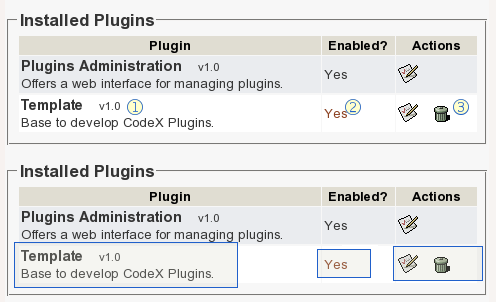
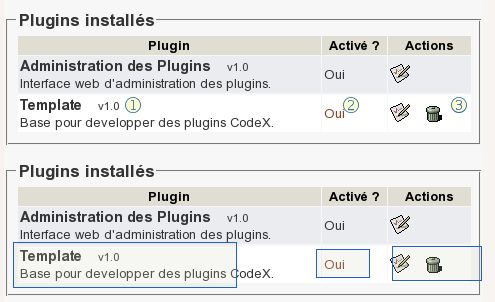
Replace english screenshots by french ones in french documentation. Link web pages of PluginsAdministration to its documentation.

diff --git a/plugins/pluginsadministration/www/documentation/fr_FR/screenshots.css b/plugins/pluginsadministration/www/documentation/fr_FR/screenshots.css
@@ -19,13 +19,13 @@
 dl#legendInstalledPlugins{
 	background:transparent url(InstalledPlugins.png) top left no-repeat;
 	height: 151px;
-	width: 496px;
+	width: 495px;
 }
 
 dl#legendPriorities{
 	background:transparent url(Priorities.png) top left no-repeat;
-	height: 234px;
-	width: 490px;
+	height: 233px;
+	width: 489px;
 }
 
 .screenshot dl dt{ margin: 0; padding: 0; position: absolute; font-size: 85%; display: none; }
@@ -45,34 +45,34 @@ dl#legendPriorities{
 }
 
 /* ---------- Hotspot Declarations ---------- */
-dd#descriptionDef{ top: 91px; left: 14px; }
+dd#descriptionDef{ top: 91px; left: 13px; }
 dd#descriptionDef a{ position: absolute; width: 244px; height: 46px; text-decoration: none; }
 dd#descriptionDef a span{ display: none; }
-dd#descriptionDef a:hover{ background: transparent url(InstalledPlugins.png)  -14px  -242px no-repeat; }
+dd#descriptionDef a:hover{ background: red url(InstalledPlugins.png)  -13px  -242px no-repeat; }
 dd#descriptionDef a:hover span {display: block;}
 
-dd#enableDef{ top: 98px; left: 317px; }
+dd#enableDef{ top: 98px; left: 316px; }
 dd#enableDef a{ position: absolute; width: 55px; height: 29px; text-decoration: none; }
 dd#enableDef a span{ display: none; }
-dd#enableDef a:hover{ background: transparent url(InstalledPlugins.png)  -317px -249px  no-repeat; }
+dd#enableDef a:hover{ background: transparent url(InstalledPlugins.png)  -316px -249px  no-repeat; }
 dd#enableDef a:hover span {display: block; width:200%;}
 
 
-dd#actionsDef{ top: 95px; left: 393px; }
+dd#actionsDef{ top: 95px; left: 392px; }
 dd#actionsDef a{ position: absolute; width: 90px; height: 35px; text-decoration: none;	}
 dd#actionsDef a span{ display: none; }
-dd#actionsDef a:hover{ background: transparent url(InstalledPlugins.png) -393px -246px no-repeat; }
+dd#actionsDef a:hover{ background: transparent url(InstalledPlugins.png) -392px -246px no-repeat; }
 dd#actionsDef a:hover span {display: block; width:250%;}
 
 /* */
-dd#hookDef{ top: 16px; left: 14px; }
-dd#hookDef a{ position: absolute; width: 310px; height: 43px; text-decoration: none; }
+dd#hookDef{ top: 17px; left: 14px; }
+dd#hookDef a{ position: absolute; width: 363px; height: 41px; text-decoration: none; }
 dd#hookDef a span{ display: none; }
 dd#hookDef a:hover{ background: transparent url(Priorities.png)  -14px  -250px no-repeat; }
 dd#hookDef a:hover span {display: block;}
 
-dd#prioritiesDef{ top: 105px; left: 11px; }
-dd#prioritiesDef a{ position: absolute; width: 239px; height: 97px; text-decoration: none; }
+dd#prioritiesDef{ top: 106px; left: 11px; }
+dd#prioritiesDef a{ position: absolute; width: 253px; height: 97px; text-decoration: none; }
 dd#prioritiesDef a span{ display: none; }
 dd#prioritiesDef a:hover{ background: transparent url(Priorities.png)  -11px -339px  no-repeat; }
 dd#prioritiesDef a:hover span {display: block; width:100%;}

diff --git a/plugins/pluginsadministration/www/index.php b/plugins/pluginsadministration/www/index.php
@@ -6,7 +6,9 @@
  *
  * front-end to plugins administration
  */
+define('PLUGINS_ADMINISTRATION', 1);
 require_once('pre.php');
+require_once('./common.php');
 require_once('common/plugin/PluginManager.class');
 require_once('common/plugin/PluginHookPriorityManager.class');
 require_once('common/collection/MultiMap.class');
@@ -94,20 +96,21 @@ if (isset($_REQUEST['action']) && isset($_REQUEST['plugin_id'])) {
     }
 }
 
+
 //get all plugins
 $plugins    =& $plugin_manager->getAllPlugins();
 $priorities =  array();
 
 $title = $Language->getText('plugin_pluginsadministration','title');
 $HTML->header(array('title'=>$title));
-$output = '<h2>'.$title.'</h2>';
+$output = '<h2>'.$title.'&nbsp;'.getHelp().'</h2>';
 
 if (isset($confirmation)) {
     $output .= $confirmation;
 }
 
 //{{{ Installed Plugins
-$output .= '<fieldset class="pluginsadministration"><legend>'.$Language->getText('plugin_pluginsadministration','plugins').'</legend><form>';
+$output .= '<fieldset class="pluginsadministration"><legend>'.$Language->getText('plugin_pluginsadministration','plugins').'&nbsp;'.getHelp('manage').'</legend><form>';
 if($plugins->isEmpty()) {
     $output .= $Language->getText('plugin_pluginsadministration','there_is_no_plugin');
 } else {
@@ -192,7 +195,7 @@ $output .= '</form></fieldset>';
 //{{{ Not yet installed plugins
 $not_yet_installed =& $plugin_manager->getNotYetInstalledPlugins();
 if ($not_yet_installed && count($not_yet_installed) > 0) {
-    $output .= '<fieldset class="pluginsadministration"><legend>'.$Language->getText('plugin_pluginsadministration','not_yet_installed').'</legend>';
+    $output .= '<fieldset class="pluginsadministration"><legend>'.$Language->getText('plugin_pluginsadministration','not_yet_installed').'&nbsp;'.getHelp('install').'</legend>';
     $output .= '<div>'.$GLOBALS['Language']->getText('plugin_pluginsadministration','select_install').'</div>';
     $prefixe = '<a href="?action=install&name=';
     $middle  = '" title="'.$Language->getText('plugin_pluginsadministration','install_plugin').'">';
@@ -236,7 +239,7 @@ if (count($priorities) > 0) {
     if($show_priorities) {
         $form_name = '_'.mt_rand();
         $output .= '<form  name="'.$form_name.'" action="" method="POST" onsubmit="return submitForm(this);">';
-        $output .= '<fieldset class="pluginsadministration"><legend>'.$GLOBALS['Language']->getText('plugin_pluginsadministration','priorities').'</legend>';
+        $output .= '<fieldset class="pluginsadministration"><legend>'.$GLOBALS['Language']->getText('plugin_pluginsadministration','priorities').'&nbsp;'.getHelp('priorities').'</legend>';
         $output .= '<input type="hidden" name="action" value="update_priorities" />';
         function emphasis($name, $enable) {
             if (!$enable) {

diff --git a/plugins/pluginsadministration/www/properties.php b/plugins/pluginsadministration/www/properties.php
@@ -6,7 +6,9 @@
  *
  * front-end to plugins administration
  */
+define('PLUGINS_ADMINISTRATION', 1);
 require_once('pre.php');
+require_once('./common.php');
 require_once('common/plugin/PluginFactory.class');
 require_once('common/plugin/PluginManager.class');
 
@@ -78,7 +80,7 @@ if (!isset($_REQUEST['plugin_id'])) {
         $output .= '<div><a href="'.$link_to_plugins.'">'.$GLOBALS['Language']->getText('plugin_pluginsadministration_properties','return').'</a></div>';
         $title = $GLOBALS['Language']->getText('plugin_pluginsadministration','title');
         $HTML->header(array('title'=>$title));
-        echo '<h2>'.$title.'</h2>'.$output;
+        echo '<h2>'.$title.'&nbsp;'.getHelp().'</h2>'.$output;
         $HTML->footer(array());
     }
 }

diff --git a/plugins/pluginsadministration/www/common.php b/plugins/pluginsadministration/www/common.php
@@ -1,0 +1,14 @@
+<?php
+if (!defined('PLUGINS_ADMINISTRATION')) {
+    require_once('pre.php');
+    header('Location: '.get_server_url().'/plugins/pluginsadministration/');
+    exit(0);
+}
+function getHelp($section = '') {
+    if (trim($section) !== '' && $section{0} !== '#') {
+        $section = '#'.$section;
+    }
+    return '<a href="javascript:help_window(\''.get_server_url().'/plugins/pluginsadministration/documentation/'.user_get_languagecode().'/'.$section.'\');">[?]</a>';
+}
+
+?>
